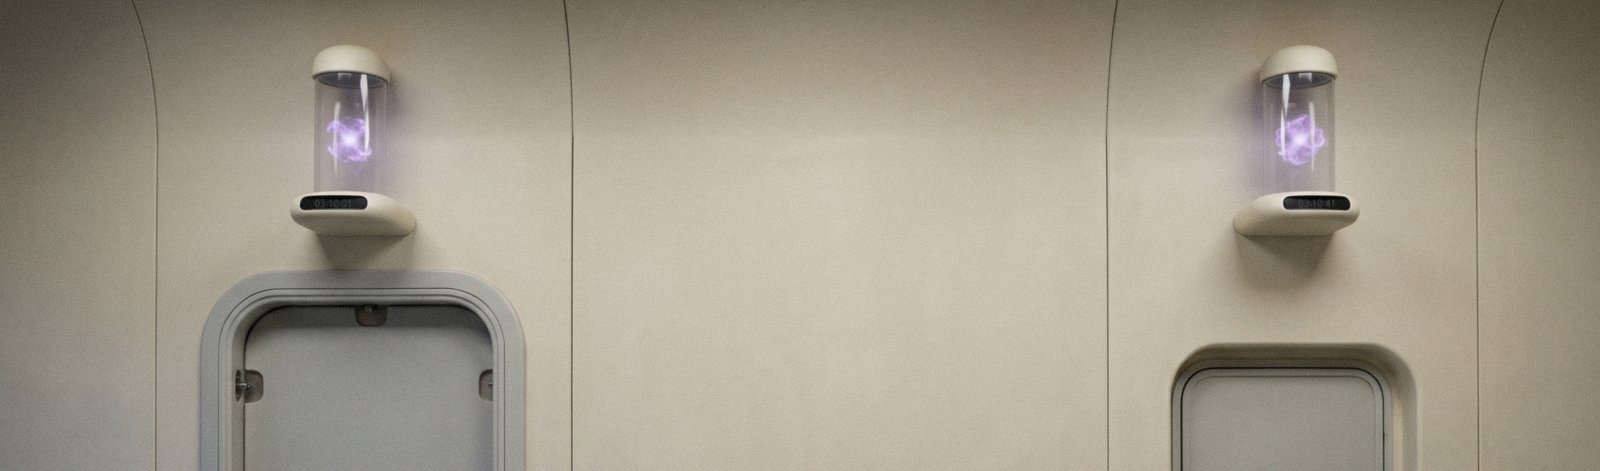
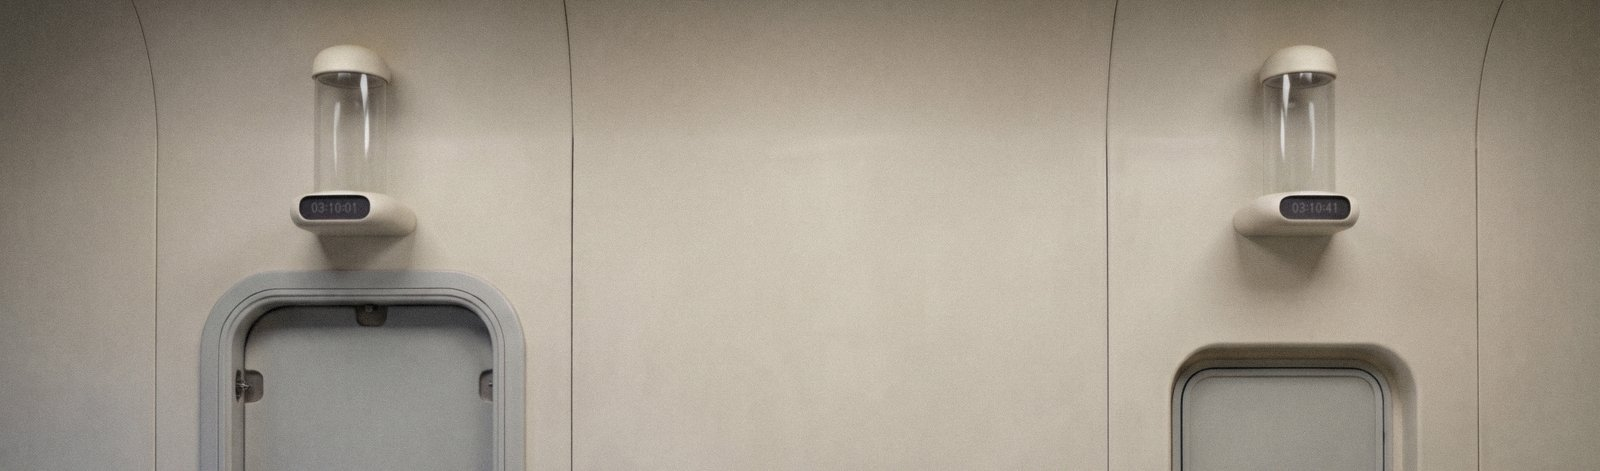
Season 1 hero: the clocks match S01E01C01
No violet glow; wide readouts reading 03:10:01 and 03:10:41. The Boundary
Zones picture, cut from the same take, re-filed with it; four alts updated.
Dermot's "Yes replace the Season 1 hero image please".

diff --git a/story-bible/image-prompts.md b/story-bible/image-prompts.md
@@ -6321,3 +6321,20 @@ Dermot asked of the frame *"Does this image look like a clock above a door or so
 > Second, the robot walking a few steps behind her through the seal. Keep exactly the same robot, as in the second image: the same tall broad matte pale grey trunk, the same scuffed limb casings, the same low wide rounded head unit on its dark collar with the lens cluster turned aside, at the same size and in the same place. Change only its posture: give it the easy walking stride of a machine that has walked these docks for decades, mid-step, one foot planted and the other leg swinging through with the knee clearly bent, the hips and shoulders turned slightly with the step, the arms swinging a little, loosely, opposite to the legs, the trunk leaning very slightly forward. Unhurried and sure-footed, not stiff, not marching.
 >
 > No other new objects, no screens, no lettering. A documentary photograph, not a render.
+
+## 2026-11-24 — The Season 1 hero's clocks match S01E01C01 (Opus, desktop)
+
+Dermot's *"Yes replace the Season 1 hero image please"*, after S01E01C01's clock lost its glow and gained a wide readout the same day. An image fix, so Opus.
+
+### hero/season-01.jpg and lore/boundary-zones-dock-seven.jpg — re-filed 24 November 2026
+- **Kind:** an edit of the 16:9 take both pictures come from, then readout digits set by script.
+- **Source:** `image-out/season-01-r1/v3-set.png` (the 13 November take with its readouts set), sent alone.
+- **Run:** `scripts/image-edit.js`, round 1 of 1, three takes, take 2 filed: both cylinders clear with nothing glowing, both readouts broad and blank; takes 1 and 3 kept smaller or pale panels. Then `set-readouts.py --box 528,374,95,26 --text 03:10:01 --box 2215,374,95,26 --text 03:10:41` at 2752 px. The banner is the same band as before (rows 30 to 840 of 1536), filed at 1600 px; the lore picture is the whole frame at 1600 px. Both strength 1, provenance generated. The alts of the four pages that show them (Season 1, Boundary Zones, the boundary-zone glossary entry, the 2819 timeline entry) now say the glass holds nothing glowing.
+- **Note:** the clocks in `chapters/s01e00c07.jpg` were made from this design on 16 November and still show the violet cloud.
+- **Prompt:**
+
+> Edit the first image, a photograph. Do not reframe, crop, zoom or redraw the room. Keep everything exactly as it is: the pale cream curved wall and its seams, the heavy rounded pressure seal at the left, the smaller inner hatch at the right, the long dark wooden counter across the foot of the frame with the closed brown book on it, the framing, light, focus and grain.
+>
+> Change only the two clocks on the wall, one above each door, keeping each in exactly the same place, at the same size, on the same short rounded cream bracket, as the same kind of instrument: an upright clear glass cylinder under a rounded cream cap, standing on a smooth rounded cream base. Remove the violet glowing cloud from inside both cylinders: the glass is clear and quiet, with nothing glowing inside, so that nothing in the frame glows. Make the dark recessed readout window on the front of each base much larger, a broad matte panel filling most of the front of the base, so that each reads at a glance as the face of a clock. Both readout windows are matte, unlit and completely blank: no digits, no numerals, no text, no light.
+>
+> No other new objects, no screens, no lettering. A documentary photograph, not a render.

diff --git a/src/timeline/2819-intermembrane-bleed-graded.md b/src/timeline/2819-intermembrane-bleed-graded.md
@@ -7,7 +7,7 @@ era: "2800-2825"
 summary: "The Survey Corps names the coupling behind Etheric interference and grades it against the Boundary Types already used for drift: Membrane Resonance at Type II, Intermembrane Bleed at Type III. Every boundary zone on the books is fixed as a narrowing between universes."
 tags: [survey-corps, intermembrane-bleed, membrane-resonance, etheric, boundary, post-11-manifold, interval, cosmology, history]
 image: "lore/boundary-zones-dock-seven.jpg"
-image_alt: "A plain cream dock wall with two shut doors, a large pressure seal on the left and a smaller hatch on the right, and the edge of a desk with one closed book along the bottom of the frame. Above each door, on a small bracket, an identical atomic clock: a glass cylinder holding a faint violet glow over a dark readout. The left one reads 03:10:01 and the right one 03:10:41."
+image_alt: "A plain cream dock wall with two shut doors, a large pressure seal on the left and a smaller hatch on the right, and the edge of a desk with one closed book along the bottom of the frame. Above each door, on a small bracket, an identical atomic clock: a clear glass cylinder, nothing glowing in it, over a wide dark readout. The left one reads 03:10:01 and the right one 03:10:41."
 ---
 
 <article class="lore-entry">

diff --git a/src/seasons/s01/index.md b/src/seasons/s01/index.md
@@ -12,7 +12,7 @@ permalink: /seasons/s01/
   </ol>
 </nav>
 
-<img class="page-hero-image" src="/star-rangers/images/hero/season-01.jpg" alt="A clean, pale cream dock wall: the top of a heavy rounded pressure door on the left and of a smaller sealed hatch on the right, and high above each, on a rounded cream bracket, one of two identical atomic clocks, a clear glass cylinder holding a faint violet cloud, its dark readout window reading 03:10:01 above the door and 03:10:41 above the hatch" />
+<img class="page-hero-image" src="/star-rangers/images/hero/season-01.jpg" alt="A clean, pale cream dock wall: the top of a heavy rounded pressure door on the left and of a smaller sealed hatch on the right, and high above each, on a rounded cream bracket, one of two identical atomic clocks, a clear glass cylinder with nothing glowing in it, its wide dark readout reading 03:10:01 above the door and 03:10:41 above the hatch" />
 <h1 class="page-title">Season 1</h1>
 <p class="page-intro">
   Threshold Station is already living with a false reading when Season 1 begins. Browse the published episodes, then follow how each chapter tests civic duty against damaged memory and disputed evidence.

diff --git a/src/glossary/boundary-zone.md b/src/glossary/boundary-zone.md
@@ -14,7 +14,7 @@ related:
   - "Etheric"
 tags: [boundary, concordant, cosmology, undercover-pets.com]
 image: "lore/boundary-zones-dock-seven.jpg"
-image_alt: "A plain cream dock wall with two shut doors, a large pressure seal on the left and a smaller hatch on the right, and the edge of a desk with one closed book along the bottom of the frame. Above each door, on a small bracket, an identical atomic clock: a glass cylinder holding a faint violet glow over a dark readout. The left one reads 03:10:01 and the right one 03:10:41."
+image_alt: "A plain cream dock wall with two shut doors, a large pressure seal on the left and a smaller hatch on the right, and the edge of a desk with one closed book along the bottom of the frame. Above each door, on a small bracket, an identical atomic clock: a clear glass cylinder, nothing glowing in it, over a wide dark readout. The left one reads 03:10:01 and the right one 03:10:41."
 ---
 
 A **boundary zone** is a region where two sets of physical and [Etheric](/star-rangers/glossary/etheric/) conditions meet and neither wholly governs. Where that happens, the difference between them becomes measurable.

diff --git a/src/lore/boundary-zones.md b/src/lore/boundary-zones.md
@@ -10,7 +10,7 @@ known: specialist
 known_note: "Held by the Survey Corps, which monitors them; most people meet the words only when a boundary event is in the news."
 era: recent
 image: "boundary-zones-dock-seven.jpg"
-image_alt: "A plain cream dock wall with two shut doors, a large pressure seal on the left and a smaller hatch on the right, and the edge of a desk with one closed book along the bottom of the frame. Above each door, on a small bracket, an identical atomic clock: a glass cylinder holding a faint violet glow over a dark readout. The left one reads 03:10:01 and the right one 03:10:41."
+image_alt: "A plain cream dock wall with two shut doors, a large pressure seal on the left and a smaller hatch on the right, and the edge of a desk with one closed book along the bottom of the frame. Above each door, on a small bracket, an identical atomic clock: a clear glass cylinder, nothing glowing in it, over a wide dark readout. The left one reads 03:10:01 and the right one 03:10:41."
 ---
 
 At a boundary station, two clocks can disagree by seconds and both still be telling the truth. That is the first lesson of a boundary zone.

diff --git a/changelog.d/2026-11-24-season-1-hero-clocks-match-the-opening-chapter.md b/changelog.d/2026-11-24-season-1-hero-clocks-match-the-opening-chapter.md
@@ -1,0 +1,1 @@
+- **The Season 1 hero's clocks match the opening chapter** (`src/images/hero/season-01.jpg`, `src/images/lore/boundary-zones-dock-seven.jpg`, `story-bible/image-prompts.md`, 2026-11-24, Opus, Dermot's *"Yes replace the Season 1 hero image please"*). The two atomic clocks above Dock Seven's doors no longer glow violet, and their readouts are wide enough to read *03:10:01* and *03:10:41*, as S01E01C01's clock now does. The Boundary Zones picture comes from the same take and was re-filed with it. The alts on the four pages that show either picture were updated.
